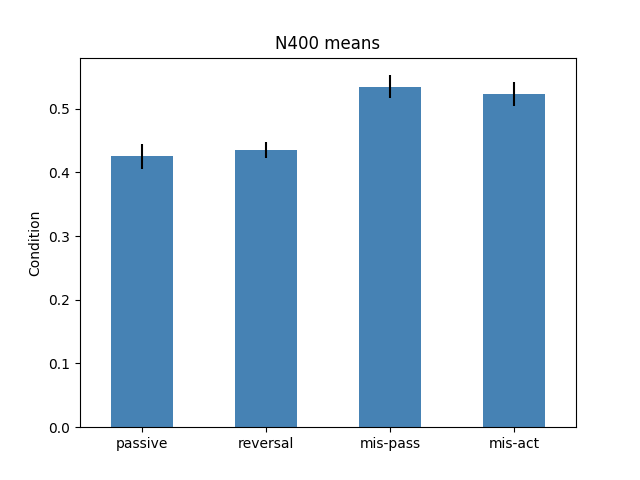
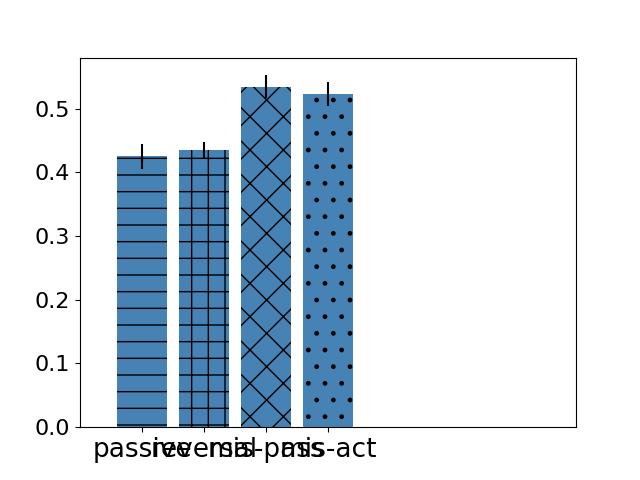
add consolidated plotting

diff --git a/brouwer_sim.py b/brouwer_sim.py
@@ -68,62 +68,68 @@ def plot_means(meandict,sedict,title,filestr,modelid,color='steelblue'):
     means = [meandict[k] for k in labels]
     se = [sedict[k] for k in labels]
     
-    ind = (np.arange(len(means))) # the x locations for the groups 
-    width = 0.5 
+    ind = (np.arange(len(means))/2.) # the x locations for the groups 
+    width = 0.4
     
     fig, ax = plt.subplots()
     rects = ax.bar(ind, means, width, color=color,yerr=se,error_kw={'ecolor':'black'})
 #     rects = ax.bar(ind, means, width, color='r', yerr=men_std) 
 #     ax.set_xlabel('Condition',size='large')
 #     ax.set_title(title,size=20)
+    patterns = ('-', '+', 'x','.') # ('\\', 'o', 'O', '*')
+    for bar, pattern in zip(rects, patterns):
+        bar.set_hatch(pattern) 
+        
     ax.set_xticks(ind) 
     ax.set_xticklabels(labels,size=19)
     plt.xlim(xmin=-.5,xmax=3.5) 
     plt.tick_params(axis='y', which='major', labelsize=16)
     plt.savefig('plots/%s-%s.png'%(filestr,modelid))
     
+def main(modelID,plot=True):
 
-modelID = '4c'
-
-print 'Loading variables ...'
-with open('settings/settings%s'%modelID) as settings: 
-    settingvars = pickle.load(settings)
-    if len(settingvars) == 6:
-        trainingsuf,embdic,binary,context_size,retrieval_size,tryloc = settingvars
-    else:
-        trainingsuf,embdic,binary,context_size,retrieval_size = settingvars
-        tryloc = False
+    print 'Loading variables ...'
+    with open('settings/settings%s'%modelID) as settings: 
+        settingvars = pickle.load(settings)
+        if len(settingvars) == 6:
+            trainingsuf,embdic,binary,context_size,retrieval_size,tryloc = settingvars
+        else:
+            trainingsuf,embdic,binary,context_size,retrieval_size = settingvars
+            tryloc = False
         
-with open('trainingpairs/trainingpairs-%s'%trainingsuf) as inputfile: trainingpairs = pickle.load(inputfile) 
+    with open('trainingpairs/trainingpairs-%s'%trainingsuf) as inputfile: trainingpairs = pickle.load(inputfile) 
 
-if not embdic.startswith('embs'): embdic = 'embs/%s'%embdic
+    if not embdic.startswith('embs'): embdic = 'embs/%s'%embdic
 
-word2loc,word2dist,vocab_size,emb_size, = get_vars(trainingpairs,embdic,debug=False,binary=binary)
+    word2loc,word2dist,vocab_size,emb_size, = get_vars(trainingpairs,embdic,debug=False,binary=binary)
 
-trainingsuf2 = 'br-origfulldutch'
-with open('trainingpairs/trainingpairs-%s'%trainingsuf2) as inputfile: trainingpairs2 = pickle.load(inputfile)
-matid2mng = get_meaning_matrix(trainingpairs2,word2dist)
+    trainingsuf2 = 'br-origfulldutch'
+    with open('trainingpairs/trainingpairs-%s'%trainingsuf2) as inputfile: trainingpairs2 = pickle.load(inputfile)
+    matid2mng = get_meaning_matrix(trainingpairs2,word2dist)
 
-mat,_ = matid2mng
-print len(mat)
+    mat,_ = matid2mng
+    print len(mat)
 
-labelnum = None
+    labelnum = None
 
-meaning_dict_list,triplets = read_meaning_dict('sentsources/sim1-d.csv',dutch=True)
-siminput = generate_hoeks(meaning_dict_list,dutch=True)
+    meaning_dict_list,triplets = read_meaning_dict('sentsources/sim1-d.csv',dutch=True)
+    siminput = generate_hoeks(meaning_dict_list,dutch=True)
 
-netTest = NetFull(vocab_size,emb_size,context_size,retrieval_size,labelnum,output='dist',tryloc=tryloc)
-loaded_dict = torch.load('modelsaves/modelsave%s'%modelID)
-netTest.load_state_dict(loaded_dict)
+    netTest = NetFull(vocab_size,emb_size,context_size,retrieval_size,labelnum,output='dist',tryloc=tryloc)
+    loaded_dict = torch.load('modelsaves/modelsave%s'%modelID)
+    netTest.load_state_dict(loaded_dict)
 
-(n400_means,n400_se),(p600_means,p600_se) = simulate(siminput,netTest,context_size,retrieval_size,word2loc,word2dist,matid2mng)
-print n400_means
-print n400_se
-print p600_means
-print p600_se
+    (n400_means,n400_se),(p600_means,p600_se) = simulate(siminput,netTest,context_size,retrieval_size,word2loc,word2dist,matid2mng)
+    print n400_means
+    print n400_se
+    print p600_means
+    print p600_se
 
-# n400means = {'passive': 0.33484166912370306, 'mis-pass': 0.48263581026787927, 'mis-act': 0.45988320220812245, 'reversal': 0.34160386911697888}
-plot_means(n400_means,n400_se,'N400 amplitudes','N400',modelID)
-plot_means(p600_means,p600_se,'P600 amplitudes','P600',modelID,color='peru')
+    # n400means = {'passive': 0.33484166912370306, 'mis-pass': 0.48263581026787927, 'mis-act': 0.45988320220812245, 'reversal': 0.34160386911697888}
+    if plot:
+        plot_means(n400_means,n400_se,'N400 amplitudes','N400',modelID)
+        plot_means(p600_means,p600_se,'P600 amplitudes','P600',modelID,color='peru')
+    
+    return n400_means,n400_se,p600_means,p600_se
 
-# print cos_dist(np.array([1,0,3]),np.array([1,2,3]))
+    # print cos_dist(np.array([1,0,3]),np.array([1,2,3]))

diff --git a/plot_barclusters.py b/plot_barclusters.py
@@ -1,0 +1,151 @@
+import matplotlib.pyplot as plt
+import numpy as np
+import brouwer_sim
+
+
+mods = ['1c','2a','2b','4c']
+# mods = ['1c','2a']
+
+# conds = ['a','b','c','d']
+meanslist = [{'a':1,'b':2,'c':5,'d':.5},{'a':1,'b':3,'c':4,'d':.6},{'a':1,'b':4,'c':3,'d':.2}]
+selist = [{'a':.1,'b':.2,'c':.5,'d':.05},{'a':.1,'b':.3,'c':.4,'d':.06},{'a':.1,'b':.4,'c':.3,'d':.02}]
+
+def plotseveral():
+    n4meanslist = []
+    n4selist = []
+    p6meanslist = []
+    p6selist = []
+    for mod in mods:
+        n400means, n400se, p600means, p600se = brouwer_sim.main(mod,plot=False)
+        n4meanslist.append(n400means)
+        n4selist.append(n400se)
+        p6meanslist.append(p600means)
+        p6selist.append(p600se)
+    
+    clusterbars(n4meanslist,n4selist,'N400',mods)
+    clusterbars(p6meanslist,p6selist,'P600',mods)
+    
+        
+        
+
+def clusterbars(meanslist,selist,title,mods):
+    print 'PLOTTING'
+    print meanslist
+    print selist
+    pos = list(range(len(mods))) 
+    width = 0.2
+    colors = ['#EE3224','#F78F1E','#EE3224','#FFC222']
+
+    # Plotting the bars
+    fig, ax = plt.subplots(figsize=(10,5))
+    conds = ['passive','reversal','mis-pass','mis-act']
+    
+    for i,cond in enumerate(conds):
+        plt.bar([p + width*i for p in pos], 
+        #using df['pre_score'] data,
+        [e[cond] for e in meanslist], 
+        # of width
+        width, 
+        # with alpha 0.5
+        alpha=0.5, 
+        # with color
+        color=colors[i], 
+        # with label the first value in first_name
+        label=['t','t','t'],
+        yerr=[e[cond] for e in selist],
+        error_kw={'ecolor':'black'})
+        
+    # Set the y axis label
+    ax.set_ylabel('Cosine')
+
+    # Set the chart's title
+#     ax.set_title('Simulated amplitudes')
+
+    # Set the position of the x ticks
+    ax.set_xticks([p + 1.5 * width for p in pos])
+
+    # Set the labels for the x ticks
+    ax.set_xticklabels(mods)
+
+    # Setting the x-axis and y-axis limits
+    plt.xlim(min(pos)-width, max(pos)+width*4)
+    plt.ylim([0, .6])
+
+    # Adding the legend and showing the plot
+    plt.legend(conds, loc='lower right')
+    # plt.grid()
+    plt.savefig('plots/%s-plotall.png'%title)
+        
+    
+# pos = list(range(3)) 
+# width = 0.25
+# 
+# # Plotting the bars
+# fig, ax = plt.subplots(figsize=(10,5))
+# 
+# # Create a bar with pre_score data,
+# # in position pos,
+# plt.bar(pos, 
+#         #using df['pre_score'] data,
+#         [1,2,3], 
+#         # of width
+#         width, 
+#         # with alpha 0.5
+#         alpha=0.5, 
+#         # with color
+#         color='#EE3224', 
+#         # with label the first value in first_name
+#         label=['t','t','t']) 
+# 
+# # Create a bar with mid_score data,
+# # in position pos + some width buffer,
+# plt.bar([p + width for p in pos], 
+#         #using df['mid_score'] data,
+#         [3.5,3,2],
+#         # of width
+#         width, 
+#         # with alpha 0.5
+#         alpha=0.5, 
+#         # with color
+#         color='#F78F1E', 
+#         # with label the second value in first_name
+#         label=['t','t','t']) 
+# 
+# # Create a bar with post_score data,
+# # in position pos + some width buffer,
+# plt.bar([p + width*2 for p in pos], 
+#         #using df['post_score'] data,
+#         [1,1,1], 
+#         # of width
+#         width, 
+#         # with alpha 0.5
+#         alpha=0.5, 
+#         # with color
+#         color='#FFC222', 
+#         # with label the third value in first_name
+#         label=['t','t','t']) 
+
+# # Set the y axis label
+# ax.set_ylabel('Score')
+# 
+# # Set the chart's title
+# ax.set_title('Test Subject Scores')
+# 
+# # Set the position of the x ticks
+# ax.set_xticks([p + 1 * width for p in pos])
+# 
+# # Set the labels for the x ticks
+# ax.set_xticklabels(['orig','SterOnly','AllCombOnly'])
+# 
+# # Setting the x-axis and y-axis limits
+# plt.xlim(min(pos)-width, max(pos)+width*4)
+# plt.ylim([0, max([1,2,3,4])] )
+# 
+# # Adding the legend and showing the plot
+# plt.legend(['Pre Score', 'Mid Score', 'Post Score'], loc='upper left')
+# # plt.grid()
+# plt.savefig('testcluster.png')
+
+if __name__ == "__main__":
+    plotseveral()
+#     clusterbars(meanslist,selist,'N400')
